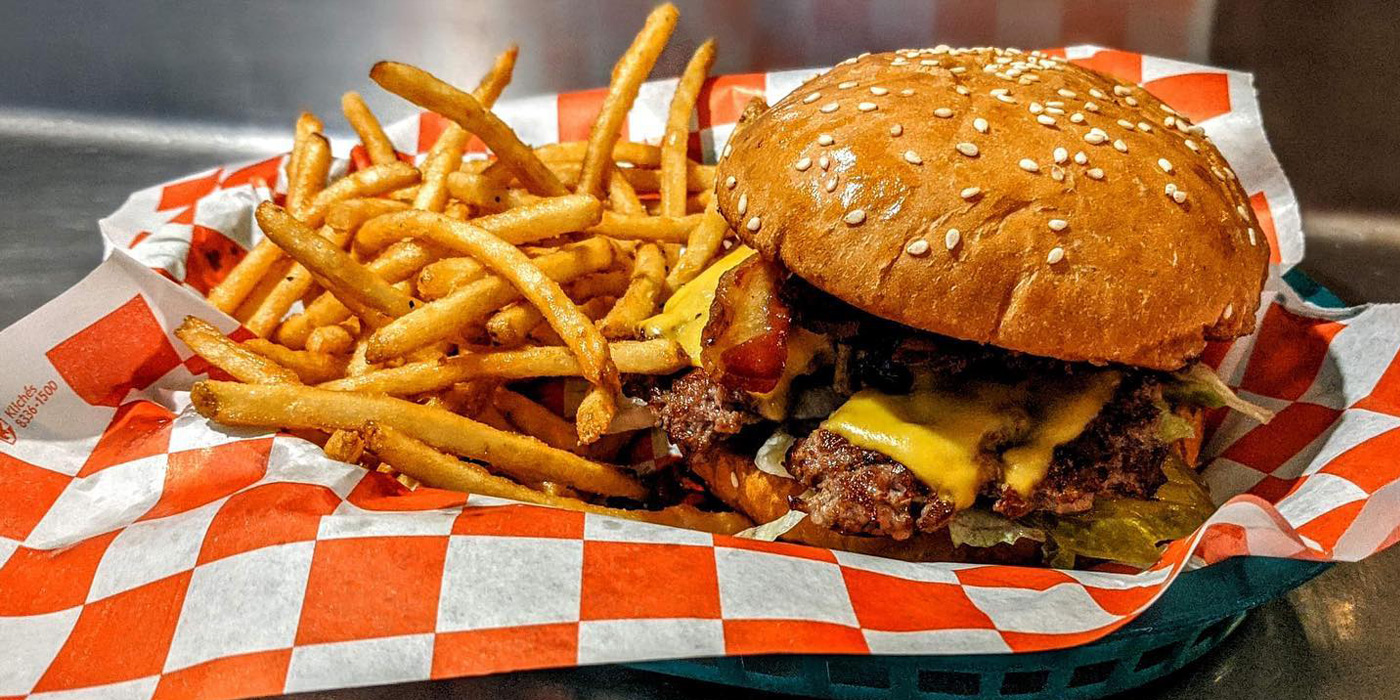
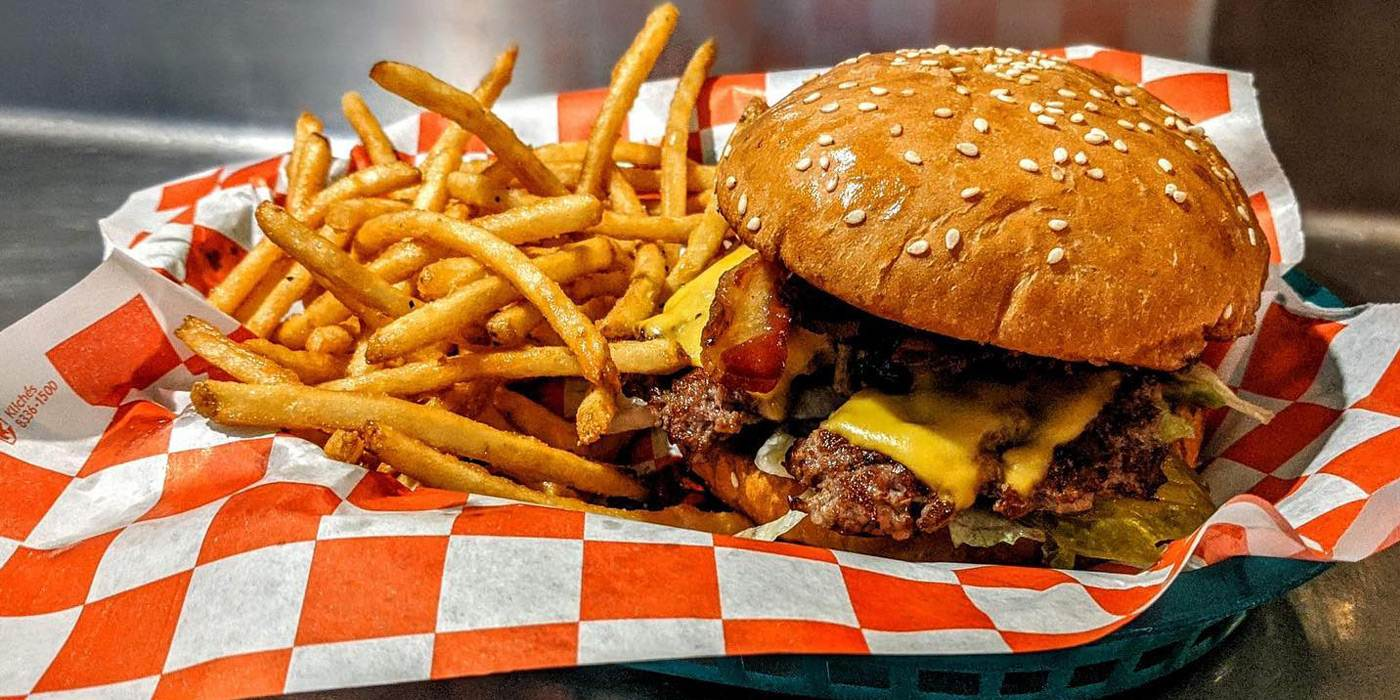
simplifying everything responsive design need some tweaks also the images are now more lighter for page charges

diff --git a/Odin-Page-Recipe/recipes-styling.css b/Odin-Page-Recipe/recipes-styling.css
@@ -219,6 +219,7 @@ h1{
 .articulos{
   background-color: rgb(248, 248, 248);
   height: 65em;
+  display: inline-flex;
   display: none;
   margin: 50px 50px;
   padding: 50px 110px;
@@ -268,6 +269,8 @@ padding: 10px 10px;
   border: 1px solid darkgray;
 padding: 25px 25px;
 border-radius: 15px;
+display: inline-flex;
+flex-direction: column;
 box-shadow: 0px 0px 10px rgba(0, 0, 0, 0.1);
 background-color: #fff;
 }
@@ -320,11 +323,33 @@ font-size: 1.5em;
   border:5px solid black;
   border-radius: 10px;
   }
+  .receta-escrita-responsiva {
+    background-color: #fff;
+    overflow-y: scroll;
+width: 100%;
+   display: inline-block;
+    box-shadow: 10px 10px 10px rgba(0, 0, 0, 0.1);
+    border:5px solid black;
+    border-radius: 10px;
+    }
   .tituloReceta{
     text-align: center;
     font-size: 1.4em;
   }
- 
+  .close-button {
+    position: sticky;
+    top: 10px;
+    display: none;
+    right: 10px;
+    font-size: 24px;
+    color: #ccc;
+    transition: all 0.3s ease;
+  }
+  
+  .close-button:hover {
+    color: #333;
+    cursor: pointer;
+  }
 .counter{
   margin-top: 20px;
   display: flex;
@@ -459,27 +484,179 @@ transform: none;
 ::-webkit-scrollbar-track {
   background-color: #f2f2f2;
 }
-    
-  @media (min-width: 768px) {
-    .box {
-      flex-direction: row;
-      justify-content: space-evenly;
-      width: 45%; 
-    }
+ .mostrarTexto{
+  font-size: 20px;
+  text-align: center;
+ }
+ .Mostrar {
+  display: none;
+  background-color: #fff;
+  border: 1px solid #ccc;
+  border-radius: 5px;
+  padding: 10px 20px;
+  box-shadow: 0px 2px 5px rgba(0, 0, 0, 0.1);
+  transition: all 0.3s ease-in-out;
+  cursor: pointer;
+  font-family: Arial, sans-serif;
+}
+
+.Mostrar:hover {
+  background-color: #f2f2f2;
+  box-shadow: 0px 4px 8px rgba(0, 0, 0, 0.2);
+}
+
+.mostrarTexto {
+  font-size: 1.5em;
+  font-weight: bold;
+  color: #333;
+  margin: 0;
+}
+
+.fa-solid.fa-list {
+  font-size: 1.5em;
+  margin-right: 5px;
+  color: #777;
+}
+@media (min-width: 768px) {
+  .box {
+    flex-direction: row;
+    justify-content: space-evenly;
+    width: 45%; 
   }
-  @media screen and (max-width: 768px) {
-    .menu-box {
-      width: 100%;
-    }
-    .box-text {
-      font-size: 18px; 
-    }
+}
+
+@media screen and (max-width: 768px) {
+  .menu-box {
+    width: 100%;
   }
-  @media (max-width: 480px) {
-    .imagen {
-      height: auto;
-      width: 100%;
-      max-width: 250px;
-      margin: 0 auto;
-    }
+  
+  .app {
+    height: auto;
   }
+  
+  .box-text {
+    font-size: 18px; 
+  }
+  
+  .articulos {
+    height: auto;
+    margin: 30px;
+    padding: 30px;
+  }
+
+  .imagen-articulo {
+    width: 100%;
+    height: auto;
+    border: none;
+    border-radius: 0;
+  }
+  
+  .receta-container {
+    width: 90%;
+    height: auto;
+    margin: 0 auto;
+    padding: 20px;
+    border-radius: 0;
+    box-shadow: none;
+    border: none;
+  }
+  
+  .receta-container>* {
+    margin-bottom: 20px;
+  }
+}
+
+@media (max-width: 480px) {
+  .imagen {
+    height: auto;
+    width: 100%;
+    max-width: 250px;
+    margin: 0 auto;
+  }
+  
+  .box{
+    display: none;
+  }
+  
+  .app {
+    margin: 10px;
+  }
+  
+  .receta-container {
+    padding: 10px;
+  }
+}
+
+@media (max-width: 587px) {
+  .nav-container {
+    display: none;
+  }
+}
+
+@media screen and (max-width: 1280px) {
+  .receta-escrita {
+    display: block;
+  }
+  
+  .Mostrar {
+    display: block;
+  }
+  
+  .receta-container {
+    width: 90%;
+    height: auto;
+    margin: 0 auto;
+    padding: 10px;
+    border-radius: 0;
+    box-shadow: none;
+    border: none;
+    float: left;
+  } 
+
+  .icons {
+    display: none;
+  }
+  
+  .receta-escrita {
+    display: none;
+  }
+  
+  .imagen-articulo {
+    max-width: 100%;
+    max-height: 100%;
+    display: block;
+    margin: auto;
+  }
+  
+  .articulos {
+    overflow: scroll;
+    overflow-y: scroll;
+  }
+}
+
+@media (max-width: 767px) {
+  .miboton {
+    padding: 10px 15px;
+    font-size: 14px;
+  }
+  
+  .footer-container {
+    flex-direction: column;
+    align-items: center;
+    text-align: center;
+  }
+
+  .social-container a {
+    margin: 0.5em;
+  }
+
+  .copy-container {
+    padding: 0.5em 0;
+  }
+  
+  .Alert {
+    margin: 50px;
+    padding: 75px;
+    font-size: 0.8em;
+  }
+}

diff --git a/Odin-Page-Recipe/app.js b/Odin-Page-Recipe/app.js
@@ -346,6 +346,23 @@ function disableEnterKey(event) {
     event.preventDefault();
   }
 }
+function mostrar() {
+  const recetaContainer = document.querySelector(".receta-escrita");
+  const misValores = document.querySelector(".receta-container");
+  const close = document.querySelector(".close-button");
+
+  recetaContainer.classList.remove("receta-escrita");
+  recetaContainer.classList.add("receta-escrita-responsiva");
+
+  close.addEventListener("click", () => {
+    recetaContainer.classList.add("receta-escrita");
+    recetaContainer.classList.remove("receta-escrita-responsiva");
+    misValores.style.display = "block";
+  });
+
+  close.style.display = "flex";
+  misValores.style.display = "none";
+}
 
   ////Cajas Contenedoras
   menuSeleccionado = document.querySelector(".Menu-Seleccionado")

diff --git a/Odin-Page-Recipe/Recipes.html b/Odin-Page-Recipe/Recipes.html
@@ -48,17 +48,24 @@
   </div>
   </div>
   <article class="articulos">
+    
 <h4 class="receta-titulo"></h4>
+
 <div class="receta-escrita">
+  <i class="fas fa-times-circle close-button"></i>
   <h5 class="tituloReceta"></h5>
   
   <ul class="lista-ingredientes">
 
   
 </ul>
+
+
 <div class="recetaTexto">
+ 
   <img src="">
   </div>
+  
  <div class="counter">
   
     <button class="previousPagina miboton" onclick="previousPagina()"><</button>
@@ -68,6 +75,9 @@
   
 </div>
 <div class="receta-container">
+  <div class="Mostrar" onclick="mostrar()">
+    <p class="mostrarTexto"><i class="fa-solid fa-list"></i> Mostrar Receta</p>
+    </div>  
   <img class="imagen-articulo" src="">
 <div class="valor-nutricional">
  <p class="titulo-nutricional">Valor Nutricional:</p>
